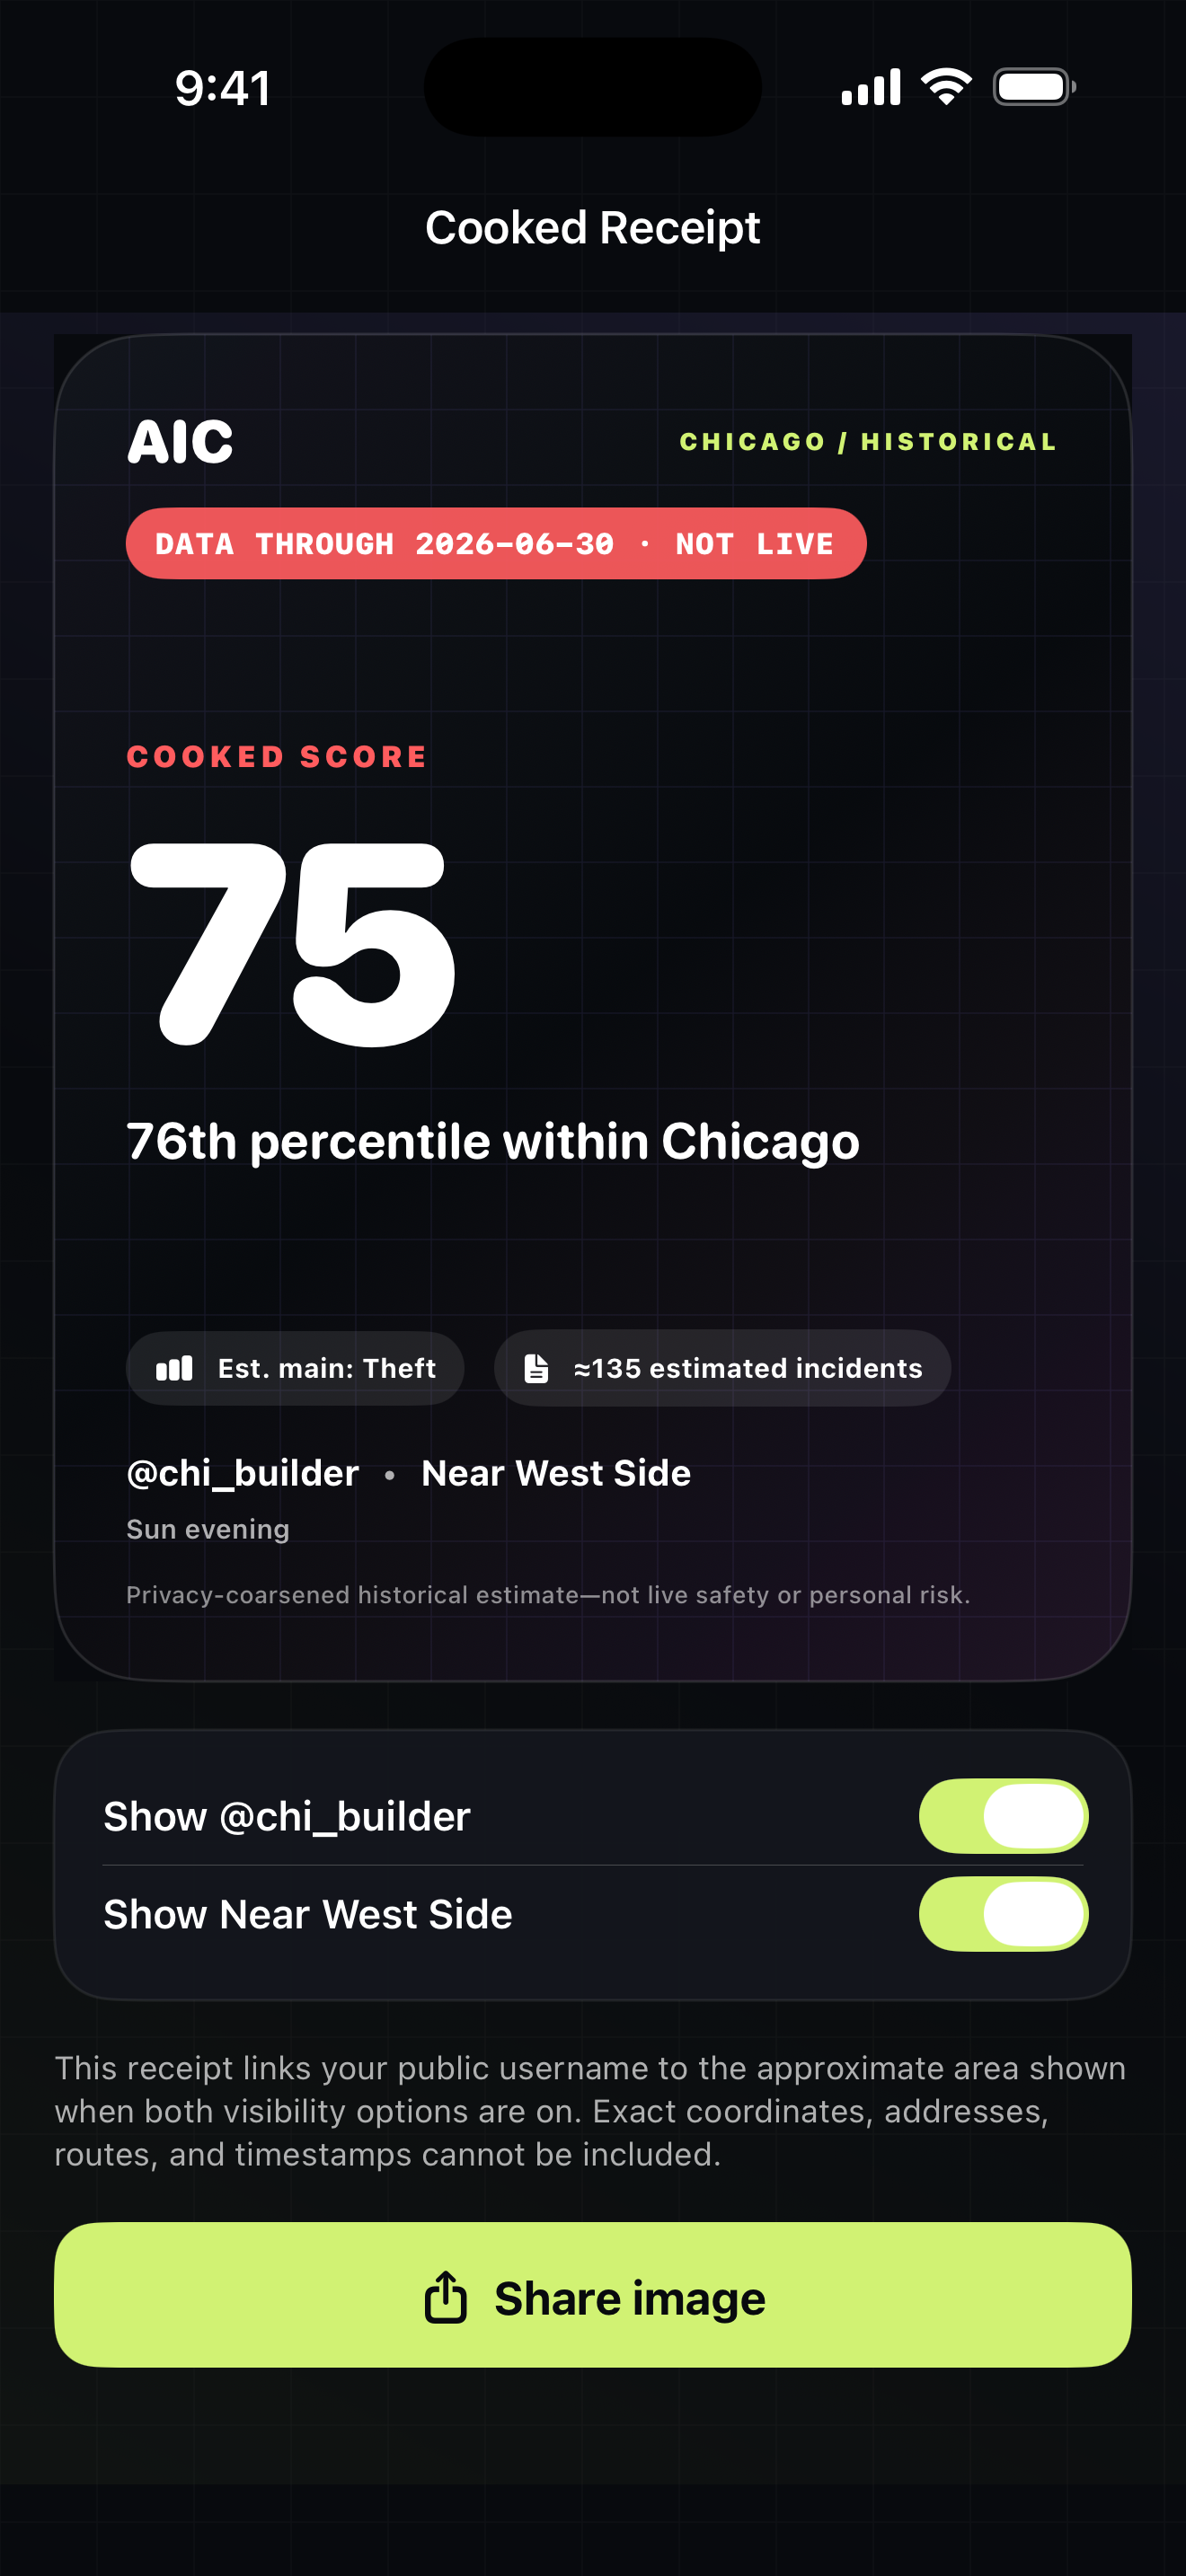
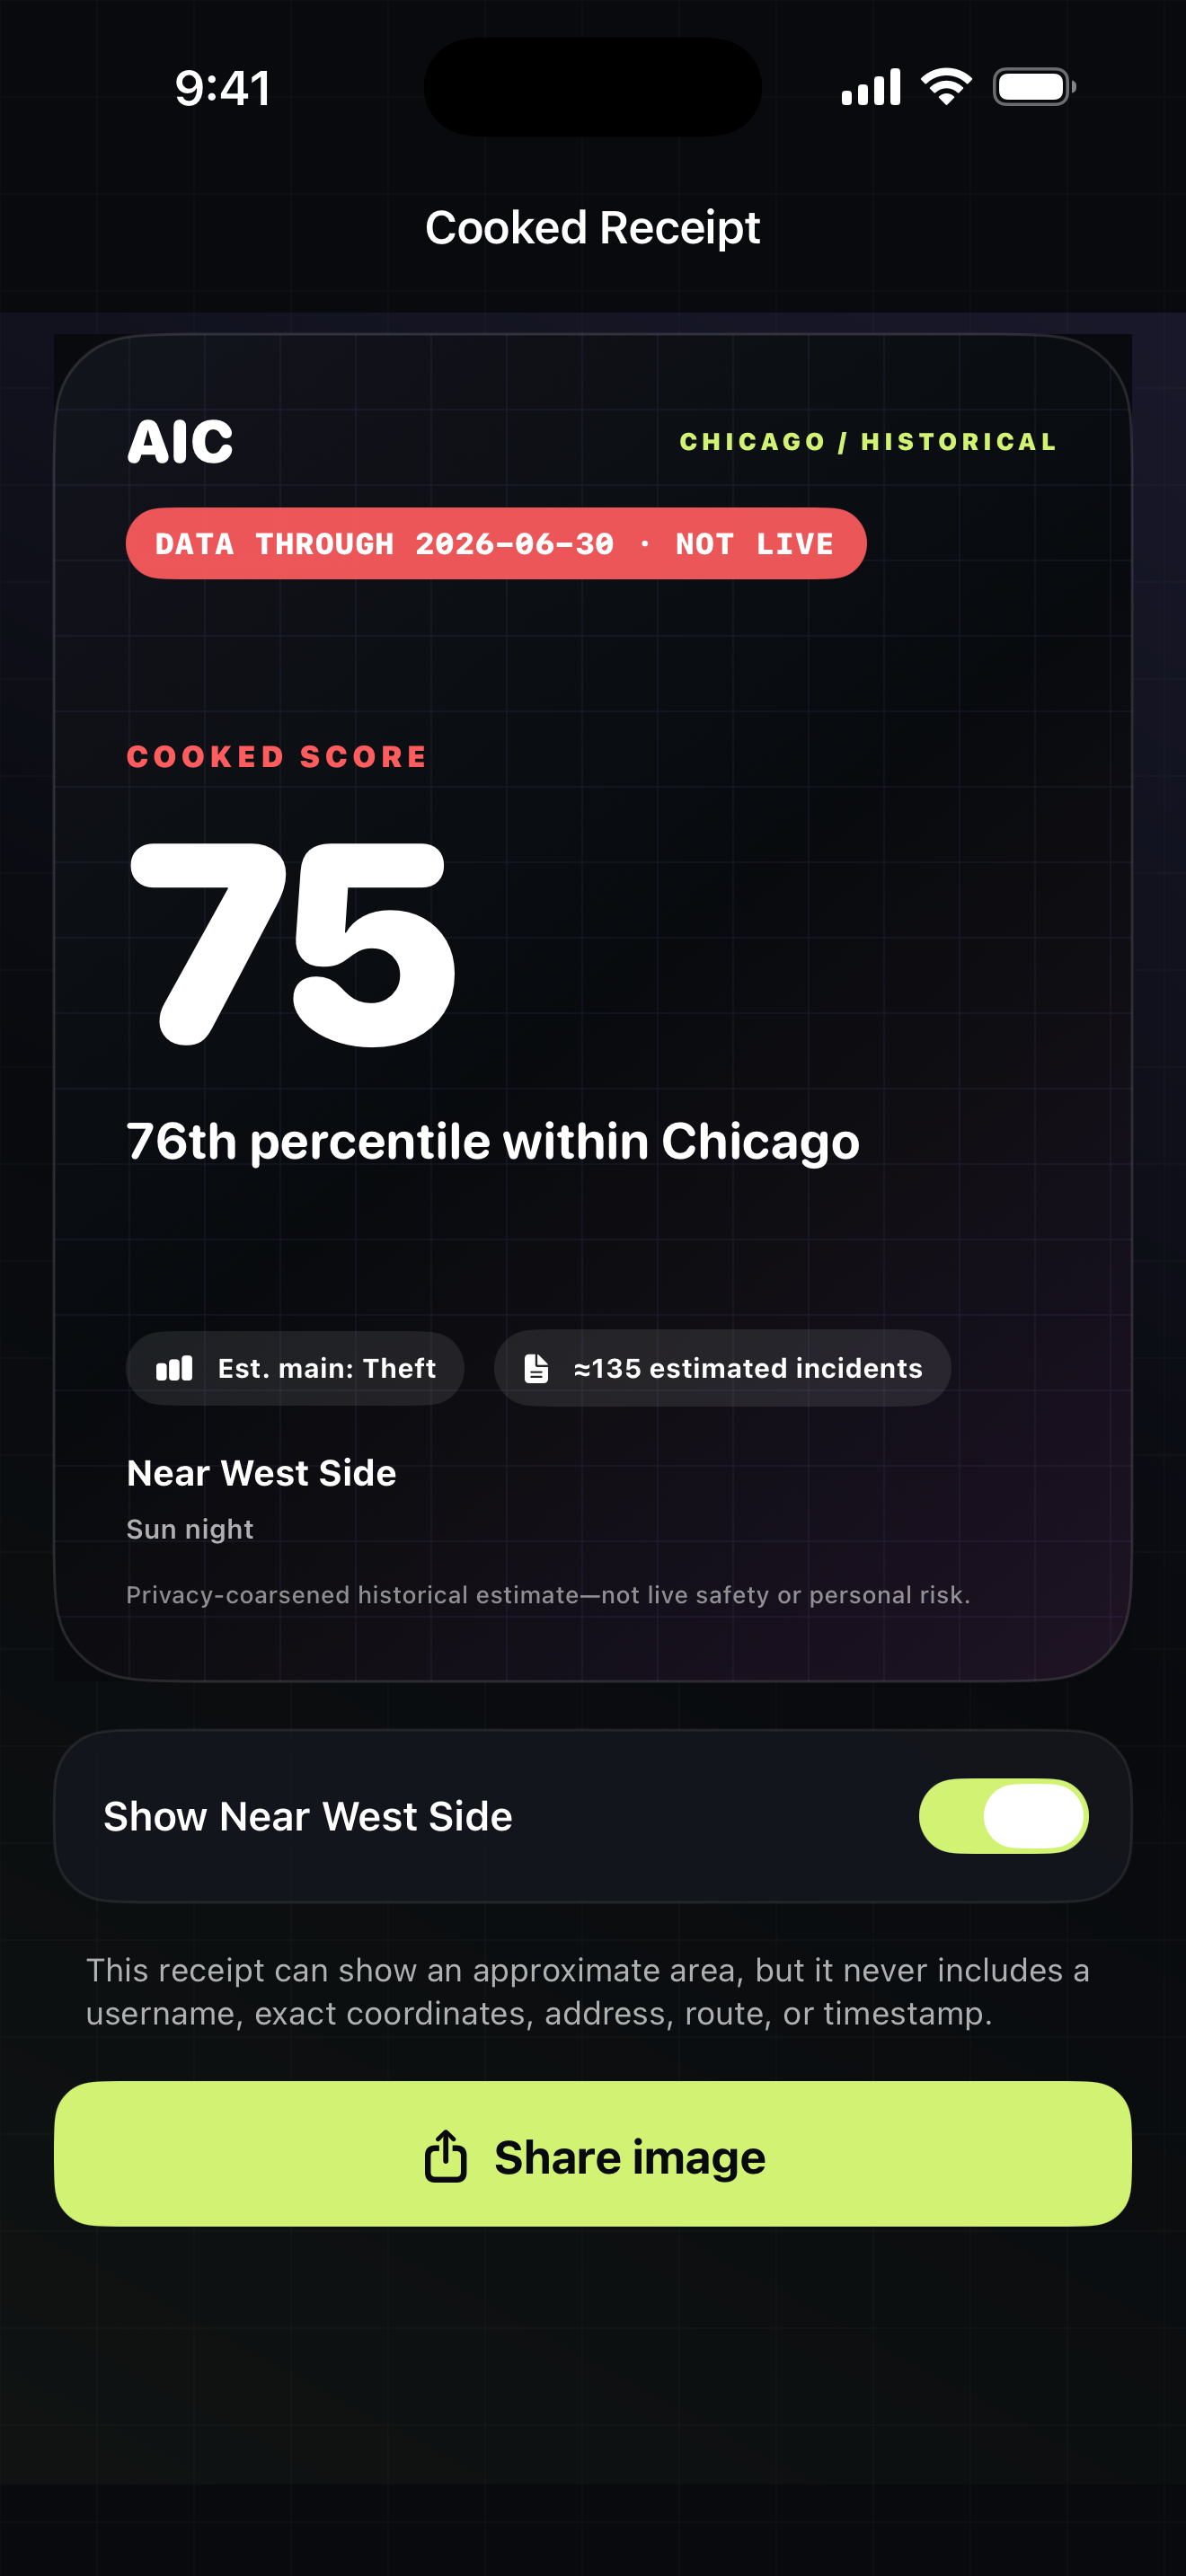
prepare signed App Store release candidate

Changed region(s): [[0.0311, 0.6827, 0.9629, 0.931], [0.0932, 0.5586, 0.5902, 0.6206]]

diff --git a/ios/Tests/AICAppTests/PackStatusClientTests.swift b/ios/Tests/AICAppTests/PackStatusClientTests.swift
@@ -16,13 +16,13 @@ final class PackStatusClientTests: XCTestCase {
             trustAnchor: PackStatusClient.trustAnchor
         ).verify(
             envelopeData: Data(contentsOf: statusURL),
-            now: Date(timeIntervalSince1970: 1_783_910_000)
+            now: Date(timeIntervalSince1970: 1_783_910_500)
         )
         let packSHA = try PackStatusVerifier.sha256Hex(fileAt: packURL)
 
[2 lines of base64/hex data omitted]
         XCTAssertEqual(verified.entry(forPackSHA256: packSHA)?.status, .active)
-        XCTAssertEqual(verified.payload.sequence, 1)
+        XCTAssertEqual(verified.payload.sequence, 2)
     }
 
     func testGlobalStatusRequestContainsNoLocationOrClientIdentifier() throws {
@@ -37,6 +37,6 @@ final class PackStatusClientTests: XCTestCase {
         XCTAssertNil(request.httpBody)
         XCTAssertEqual(request.allHTTPHeaderFields, ["Accept": "application/json"])
         XCTAssertFalse(request.url!.absoluteString.localizedCaseInsensitiveContains("chicago"))
-        XCTAssertFalse(request.url!.absoluteString.contains("821130"))
+        XCTAssertFalse(request.url!.absoluteString.contains("1a18629"))
     }
 }

diff --git a/web/public/privacy/index.html b/web/public/privacy/index.html
@@ -26,7 +26,10 @@
   <p>AIC v1 has no account, sign-in, public-username, or hosted-content feature. AIC does not collect an account identifier, name, email address, authentication credential, or session record.</p>
 
   <h2>Service providers</h2>
-  <p>Apple provides the App Store and iOS services such as the user-invoked share sheet. Cloudflare hosts these informational policy and support pages. These providers may process technical request information under their own policies. AIC does not sell personal information or use cross-app advertising trackers.</p>
+  <p>Apple provides the App Store and iOS services such as the user-invoked share sheet. Cloudflare hosts these informational policy and support pages and the fixed global signed pack-status file described below. These providers may process technical request information under their own policies. AIC does not sell personal information or use cross-app advertising trackers.</p>
+
+  <h2>Emergency pack-status check</h2>
+  <p>On launch and when returning to the foreground, subject to a 15-minute rate limit, AIC may fetch one fixed global signed pack-status file so a materially flawed bundled pack can be withdrawn. The request contains no city, coordinates, scan data, account or device identifier, installed-pack identifier, query, or body. Cloudflare necessarily receives the request IP address and ordinary HTTP/TLS metadata to deliver and secure the file. AIC uses no cookies, analytics, advertising identifiers, or personalization for this check. Pressing Scan does not trigger a status request.</p>
 
   <h2>Deletion and retention</h2>
   <p>Because v1 has no account, AIC has no account data to delete or retain. Deleting the app removes its local preferences and temporary receipts; it cannot remove copies you previously saved or shared elsewhere.</p>
@@ -35,7 +38,7 @@
   <p>No system can be guaranteed perfectly secure. Material policy changes will be posted here with a new effective date.</p>
 
   <h2>Questions</h2>
-  <p>Use the <a href="https://github.com/binhnguyenhealth-maker/AIC/issues">public AIC support issue tracker</a> for questions; do not post exact locations or other personal information. See the <a href="/support/">support page</a> for help.</p>
+  <p>Email <a href="mailto:[email redacted]">[email redacted]</a> for private support; do not send exact locations or other sensitive personal information. See the <a href="/support/">support page</a> for help.</p>
   <footer><a href="/">AIC</a> · <a href="/support/">Support</a> · <a href="/methodology/">Methodology</a> · <a href="/terms/">Terms</a></footer>
 </main>
 </body>

diff --git a/ios/AIC/Features/Home/HomeScreen.swift b/ios/AIC/Features/Home/HomeScreen.swift
@@ -35,9 +35,9 @@ struct HomeScreen: View {
         .toolbar {
             ToolbarItem(placement: .topBarTrailing) {
                 Button { showSettings = true } label: {
-                    Image(systemName: "person.crop.circle")
+                    Image(systemName: "gearshape.fill")
                         .font(.title2)
-                        .accessibilityLabel(model.isSignedIn ? "Account settings" : "Settings")
+                        .accessibilityLabel("Settings")
                 }
             }
         }

diff --git a/web/public/support/index.html b/web/public/support/index.html
@@ -13,7 +13,8 @@
   <p>AIC currently supports eligible locations in Chicago.</p>
 
   <h2>Send feedback or report a problem</h2>
-  <p>Open an issue in the <a href="https://github.com/binhnguyenhealth-maker/AIC/issues">AIC GitHub issue tracker</a>. Include what you expected, what happened, and your iOS version. Issues are public: do not include an exact location or other personal information.</p>
+  <p>Email <a href="mailto:[email redacted]">[email redacted]</a> for private support. Include what you expected, what happened, and your iOS version. Do not include an exact location or other sensitive personal information.</p>
+  <p>You may also open a public issue in the <a href="https://github.com/binhnguyenhealth-maker/AIC/issues">AIC GitHub issue tracker</a>, but never post an exact location or other personal information there.</p>
 
   <h2>Location permission denied</h2>
   <p>Use <strong>Choose another spot</strong> in AIC for the offline manual-pin flow. AIC does not require background location.</p>
@@ -21,6 +22,7 @@
   <h2>How fresh is the data?</h2>
   <p>AIC is historical, not live. The exact date on which the included historical window ends appears next to every Cooked Score and on every Cooked Receipt. Source records dated after that date are not included, and later additions or revisions may also be absent. If the installed data pack reaches the end of its defined update window, AIC stops producing scores until an updated pack is installed.</p>
   <p>An available scan means only that the installed pack is still inside that update window. It does not mean the source is complete, unrevised, or suitable for immediate safety, emergency, navigation, or route decisions.</p>
+  <p>AIC also checks a fixed, globally shared signed status file at launch or foreground, no more than once every 15 minutes. This lets AIC pause a materially flawed pack before the local cutoff without sending a city, coordinate, scan, account, device identifier, or installed-pack identifier. If a current signed status cannot be verified, AIC fails closed when the last verified status expires.</p>
 
   <h2>Accounts</h2>
   <p>AIC v1 has no account or sign-in feature and collects no account data.</p>

diff --git a/web/public/terms/index.html b/web/public/terms/index.html
@@ -19,6 +19,9 @@
   <h2>Historical public data</h2>
   <p>Results depend on preliminary public records that may be delayed, incomplete, revised, misclassified, or geographically approximate. Reported incidents do not include unreported events and do not establish causality. A score can change when the source or method changes.</p>
 
+  <h2>City of Chicago data notice</h2>
+  <p>This site provides applications using data that has been modified for use from its original source, www.cityofchicago.org, the official website of the City of Chicago. The City of Chicago makes no claims as to the content, accuracy, timeliness, or completeness of any of the data provided at this site. The data provided at this site is subject to change at any time. It is understood that the data provided at this site is being used at one's own risk.</p>
+
   <h2>No accounts</h2>
   <p>AIC v1 has no account, sign-in, or public-username feature.</p>
 

diff --git a/ios/AIC/App/AppModel.swift b/ios/AIC/App/AppModel.swift
@@ -28,7 +28,7 @@ enum ShowcaseData {
         accessToken: "showcase",
         refreshToken: "showcase",
         accessTokenExpiresAt: .distantFuture,
-        username: "chi_builder"
+        username: nil
     )
 #endif
 

diff --git a/ios/Tests/AICAppTests/LocalOperationNetworkPrivacyTests.swift b/ios/Tests/AICAppTests/LocalOperationNetworkPrivacyTests.swift
@@ -10,7 +10,7 @@ final class LocalOperationNetworkPrivacyTests: XCTestCase {
         let fixtures: [(ScanCoordinate, [Int], Int, Double, Int, String)] = [
             (
                 ScanCoordinate(latitude: 41.74838786001455, longitude: -87.67339634684177),
-                [108, 5, 41, 21], 175, 57.938092860708934, 60, "Auburn Gresham"
+                [108, 5, 41, 21], 175, 57.888167748377434, 60, "Auburn Gresham"
             ),
             (
                 ScanCoordinate(latitude: 41.82483009093114, longitude: -87.6373176094733),

diff --git a/ios/Validation/main.swift b/ios/Validation/main.swift
@@ -62,7 +62,7 @@ let pack = try ChicagoPack(url: packURL)
 let parityFixtures: [(ScanCoordinate, [Int], Int, Double, Int, String)] = [
     (
         ScanCoordinate(latitude: 41.74838786001455, longitude: -87.67339634684177),
-        [108, 5, 41, 21], 175, 57.938092860708934, 60, "Auburn Gresham"
+        [108, 5, 41, 21], 175, 57.888167748377434, 60, "Auburn Gresham"
     ),
     (
         ScanCoordinate(latitude: 41.82483009093114, longitude: -87.6373176094733),

diff --git a/web/public/account-deletion/index.html b/web/public/account-deletion/index.html
@@ -16,7 +16,7 @@
   <p>Deleting the app removes its local preferences and temporary receipts. It cannot remove a receipt you saved to Photos, sent through another app, or that another person copied or screenshotted.</p>
 
   <h2>Questions</h2>
-  <p>Use the <a href="https://github.com/binhnguyenhealth-maker/AIC/issues">public support issue tracker</a>; do not include an exact location or other personal information.</p>
+  <p>Email <a href="mailto:[email redacted]">[email redacted]</a> with questions; do not include an exact location or other sensitive personal information.</p>
 
   <footer><a href="/">AIC</a> · <a href="/privacy/">Privacy</a> · <a href="/support/">Support</a> · <a href="/terms/">Terms</a></footer>
 </main>

diff --git a/docs/research/SIGNED_IPA_VALIDATION_2026-07-12.md b/docs/research/SIGNED_IPA_VALIDATION_2026-07-12.md
@@ -1,0 +1,59 @@
+# Signed App Store IPA validation — 2026-07-12
+
+## Outcome
+
+**PASS for local signing and package validation.** Xcode exported a signed App
+Store IPA for AIC 1.0.0 (build 1). Upload, App Store processing, App Store
+Connect forms, and TestFlight installation remain separate gates.
+
+## Candidate
+
+- IPA: `build/export-app-store/AIC.ipa`
[1 lines of base64/hex data omitted]
+- Bundle identifier: `com.binhnguyenhealth.aic`
+- Version/build: `1.0.0` / `1`
+- Architecture: `arm64`
+- Minimum iOS: `17.0`
+
+## Signing evidence
+
+- `codesign --verify --deep --strict` passed.
+- Authority: `Apple Distribution: BINH CONG NGUYEN (GJ96397VV7)`.
+- Team identifier: `GJ96397VV7`.
+- Signed binary entitlements are limited to the application identifier, team
+  identifier, App Store beta reporting, and `get-task-allow = false`.
+- The signed binary has no Sign in with Apple entitlement.
+- Xcode-managed App Store profile:
+  `iOS Team Store Provisioning Profile: com.binhnguyenhealth.aic`.
+- Profile UUID: `be065392-0f36-4c4d-b598-53da759e2dbf`.
+- Profile expiration: `2027-07-13T00:40:43Z`.
+
+## Package readback
+
+- Production bundle identifier and version/build match the submission target.
+- `ITSAppUsesNonExemptEncryption` is `false`.
+- The privacy, support, terms, methodology, and fixed pack-status HTTPS URLs are
+  present in the final Info.plist.
+- The signed app contains the privacy manifest, Chicago pack, schema, and signed
+  pack-status bootstrap.
+- The Release privacy manifest declares no collected data and only the required
+  UserDefaults API reason.
+
+## Commands
+
+```sh
+xcodebuild -project ios/AIC.xcodeproj -scheme AIC -configuration Release \
+  -destination 'generic/platform=iOS' \
+  -derivedDataPath build/DerivedData-AIC-device \
+  -archivePath build/AIC-unsigned-1.0.0-1.xcarchive \
+  DEVELOPMENT_TEAM=GJ96397VV7 CODE_SIGNING_ALLOWED=NO archive
+
+xcodebuild -exportArchive \
+  -archivePath build/AIC-unsigned-1.0.0-1.xcarchive \
+  -exportPath build/export-app-store \
+  -exportOptionsPlist build/ExportOptions-AppStore.plist \
+  -allowProvisioningUpdates
+
+codesign --verify --deep --strict build/ipa-inspect/Payload/AIC.app
+codesign -d --entitlements :- build/ipa-inspect/Payload/AIC.app
+```

diff --git a/docs/research/CHICAGO_TERMS_EVIDENCE_2026-07-12.md b/docs/research/CHICAGO_TERMS_EVIDENCE_2026-07-12.md
@@ -1,0 +1,43 @@
+# City of Chicago terms evidence — 2026-07-12
+
+## Scope
+
+This dated record supports AIC's use of the City of Chicago datasets identified
+as `ijzp-q8t2`, `c7ck-438e`, and `igwz-8jzy`. It is release evidence, not legal
+advice or a substitute for qualified counsel.
+
+## Primary-source checks
+
+- The official [City of Chicago Data Terms of Use and Website
+  Disclaimer](https://www.chicago.gov/city/en/narr/foia/data_disclaimer.html)
+  requires secondary or derivative applications to display the prescribed City
+  notice at the place where the app can be accessed or downloaded.
+- The official [Crimes — 2001 to Present metadata
+  record](https://data.cityofchicago.org/api/views/ijzp-q8t2) identifies the
+  dataset as official, attributes it to the Chicago Police Department, labels its
+  license `SEE_TERMS_OF_USE`, describes daily updates, and states the source's
+  accuracy, revision, approximation, and comparison limitations.
+- The official metadata records for [IUCR
+  Codes](https://data.cityofchicago.org/api/views/c7ck-438e) and [Community Area
+  Boundaries](https://data.cityofchicago.org/api/views/igwz-8jzy) were also
+  checked as the two supporting release sources.
+
+## Release conformance checked
+
+- The exact City-prescribed derivative-application notice is retained in
+  `DATA_SOURCES.md` and appears in the App Store description and live Terms page.
+- AIC identifies the three datasets and does not use City or Chicago Police
+  branding in a way that implies endorsement.
+- AIC discloses that data is historical, preliminary, approximate, revisable,
+  incomplete, and unsuitable for emergency, navigation, or personal-safety
+  decisions.
+- The released pack contains aggregates and omits incident IDs, addresses,
+  coordinates, dates, case numbers, and exact cell totals.
+
+## Remaining legal-risk boundary
+
+No attorney has reviewed this release. The City terms include continuing
+obligations and risk allocation beyond displaying the notice. The founder must
+make the App Store Content Rights attestation and should obtain qualified legal
+review if launch-risk tolerance requires counsel rather than a primary-source
+conformance check.

diff --git a/distribution/app-store/submission-checklist.md b/distribution/app-store/submission-checklist.md
@@ -4,30 +4,30 @@
 
 - [x] iOS project generation succeeds
 - [x] iOS Simulator build, install, and launch succeed in CI
-- [x] Swift Package tests pass (24 tests)
-- [x] App-hosted Simulator unit/privacy tests pass (46 tests)
+- [x] Swift Package tests pass (40 tests)
+- [x] App-hosted Simulator unit/privacy tests pass (59 tests)
 - [x] Clean installs open the guest-only scan flow
 - [x] Bundled packs fail closed at the documented fresh-until boundary
 - [x] Every generated score and receipt shows the exact source-through date and a not-live label
 - [x] Release version is 1.0.0 (build 1)
 - [x] Release source has no account endpoint, account UI, or Sign in with Apple entitlement
-- [x] Debug Simulator app contains one privacy manifest; Release archive/readback remains below
+- [x] Signed App Store IPA contains one privacy manifest with no collected-data declarations
 - [x] App icon and required screenshots are generated and visually inspected
 - [x] Privacy policy URL returns HTTP 200
 - [x] Support URL returns HTTP 200
 - [x] App Store copy and review notes drafted
-- [ ] Deploy and read back the updated guest-only privacy, support, methodology, deletion, and terms pages
+- [x] Deploy and read back the updated guest-only privacy, support, methodology, deletion, and terms pages
 
 ## Apple-account manual gates
 
 - [x] Install Xcode 26.6 and an iOS 26.5 Simulator runtime
-- [ ] Add the founder's Apple Developer team to Xcode
-- [ ] Register the final bundle identifier (Sign in with Apple is not enabled for v1)
+- [x] Add the founder's Apple Developer team to Xcode
+- [x] Register the final bundle identifier (Sign in with Apple is not enabled in the signed v1 binary)
 - [ ] Create or select the App Store Connect app record
 - [ ] Add the App Store Connect review contact and privacy-policy fields
 - [ ] Confirm agreements, tax, and banking status do not block distribution
-- [ ] Create a distribution certificate/profile or enable automatic signing
-- [ ] Archive and validate a physical-device Release build
+- [x] Create a distribution certificate/profile or enable automatic signing
+- [x] Archive a generic production-device Release build and export a signed App Store IPA
 - [ ] Upload the archive and wait for App Store processing
 - [ ] Add the processed build to an internal TestFlight group
 - [ ] Install from TestFlight on a physical device and execute the smoke test
@@ -39,8 +39,8 @@
 
 - [ ] Complete independent statistical review of the current methodology and disclosures
 - [ ] Complete qualified legal/privacy review of claims, terms, correction process, and Chicago data rights
-- [ ] Verify the current City of Chicago source terms and retain a dated evidence record
-- [ ] Establish and test an emergency pack correction/withdrawal path in addition to the local freshness cutoff
+- [x] Verify the current City of Chicago source terms and retain a dated evidence record
+- [x] Establish and test an emergency pack correction/withdrawal path in addition to the local freshness cutoff
 - [ ] Validate the update-window, update-due-soon, and scans-paused states in a final device build
 - [ ] Assign an owner and calendar alert to refresh or withdraw the pack before `2026-08-07T00:00:00Z`
 